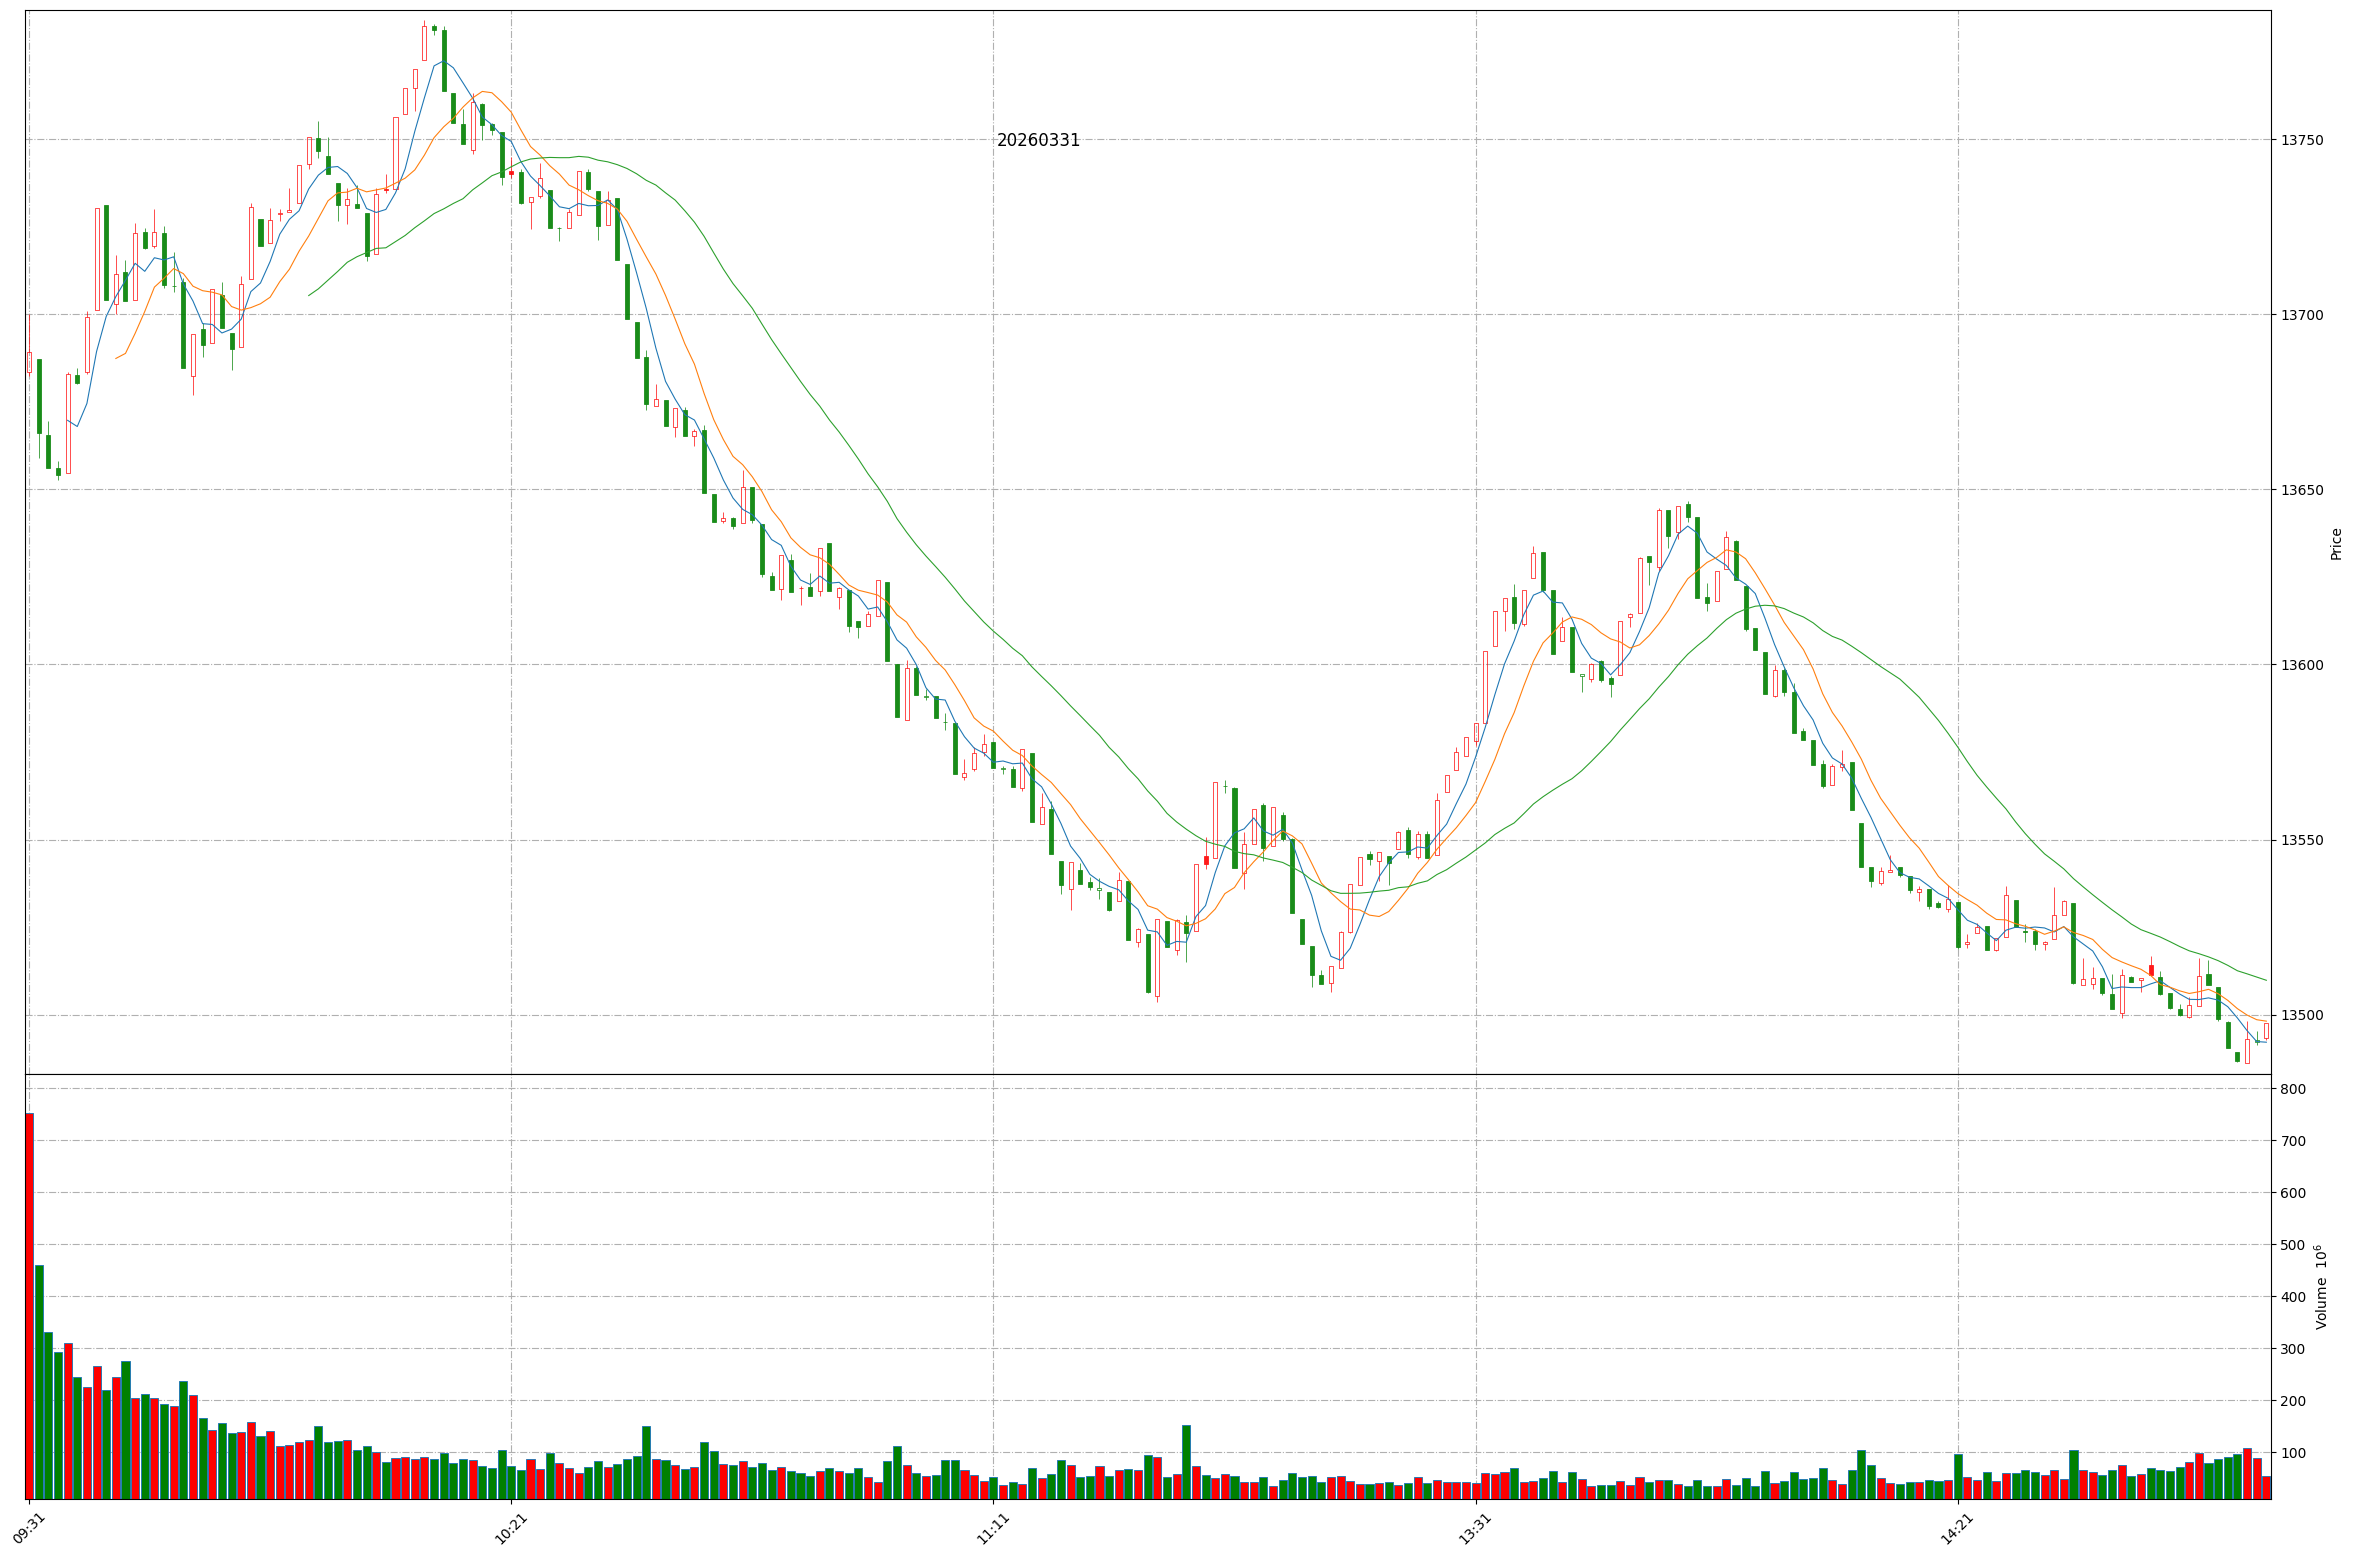
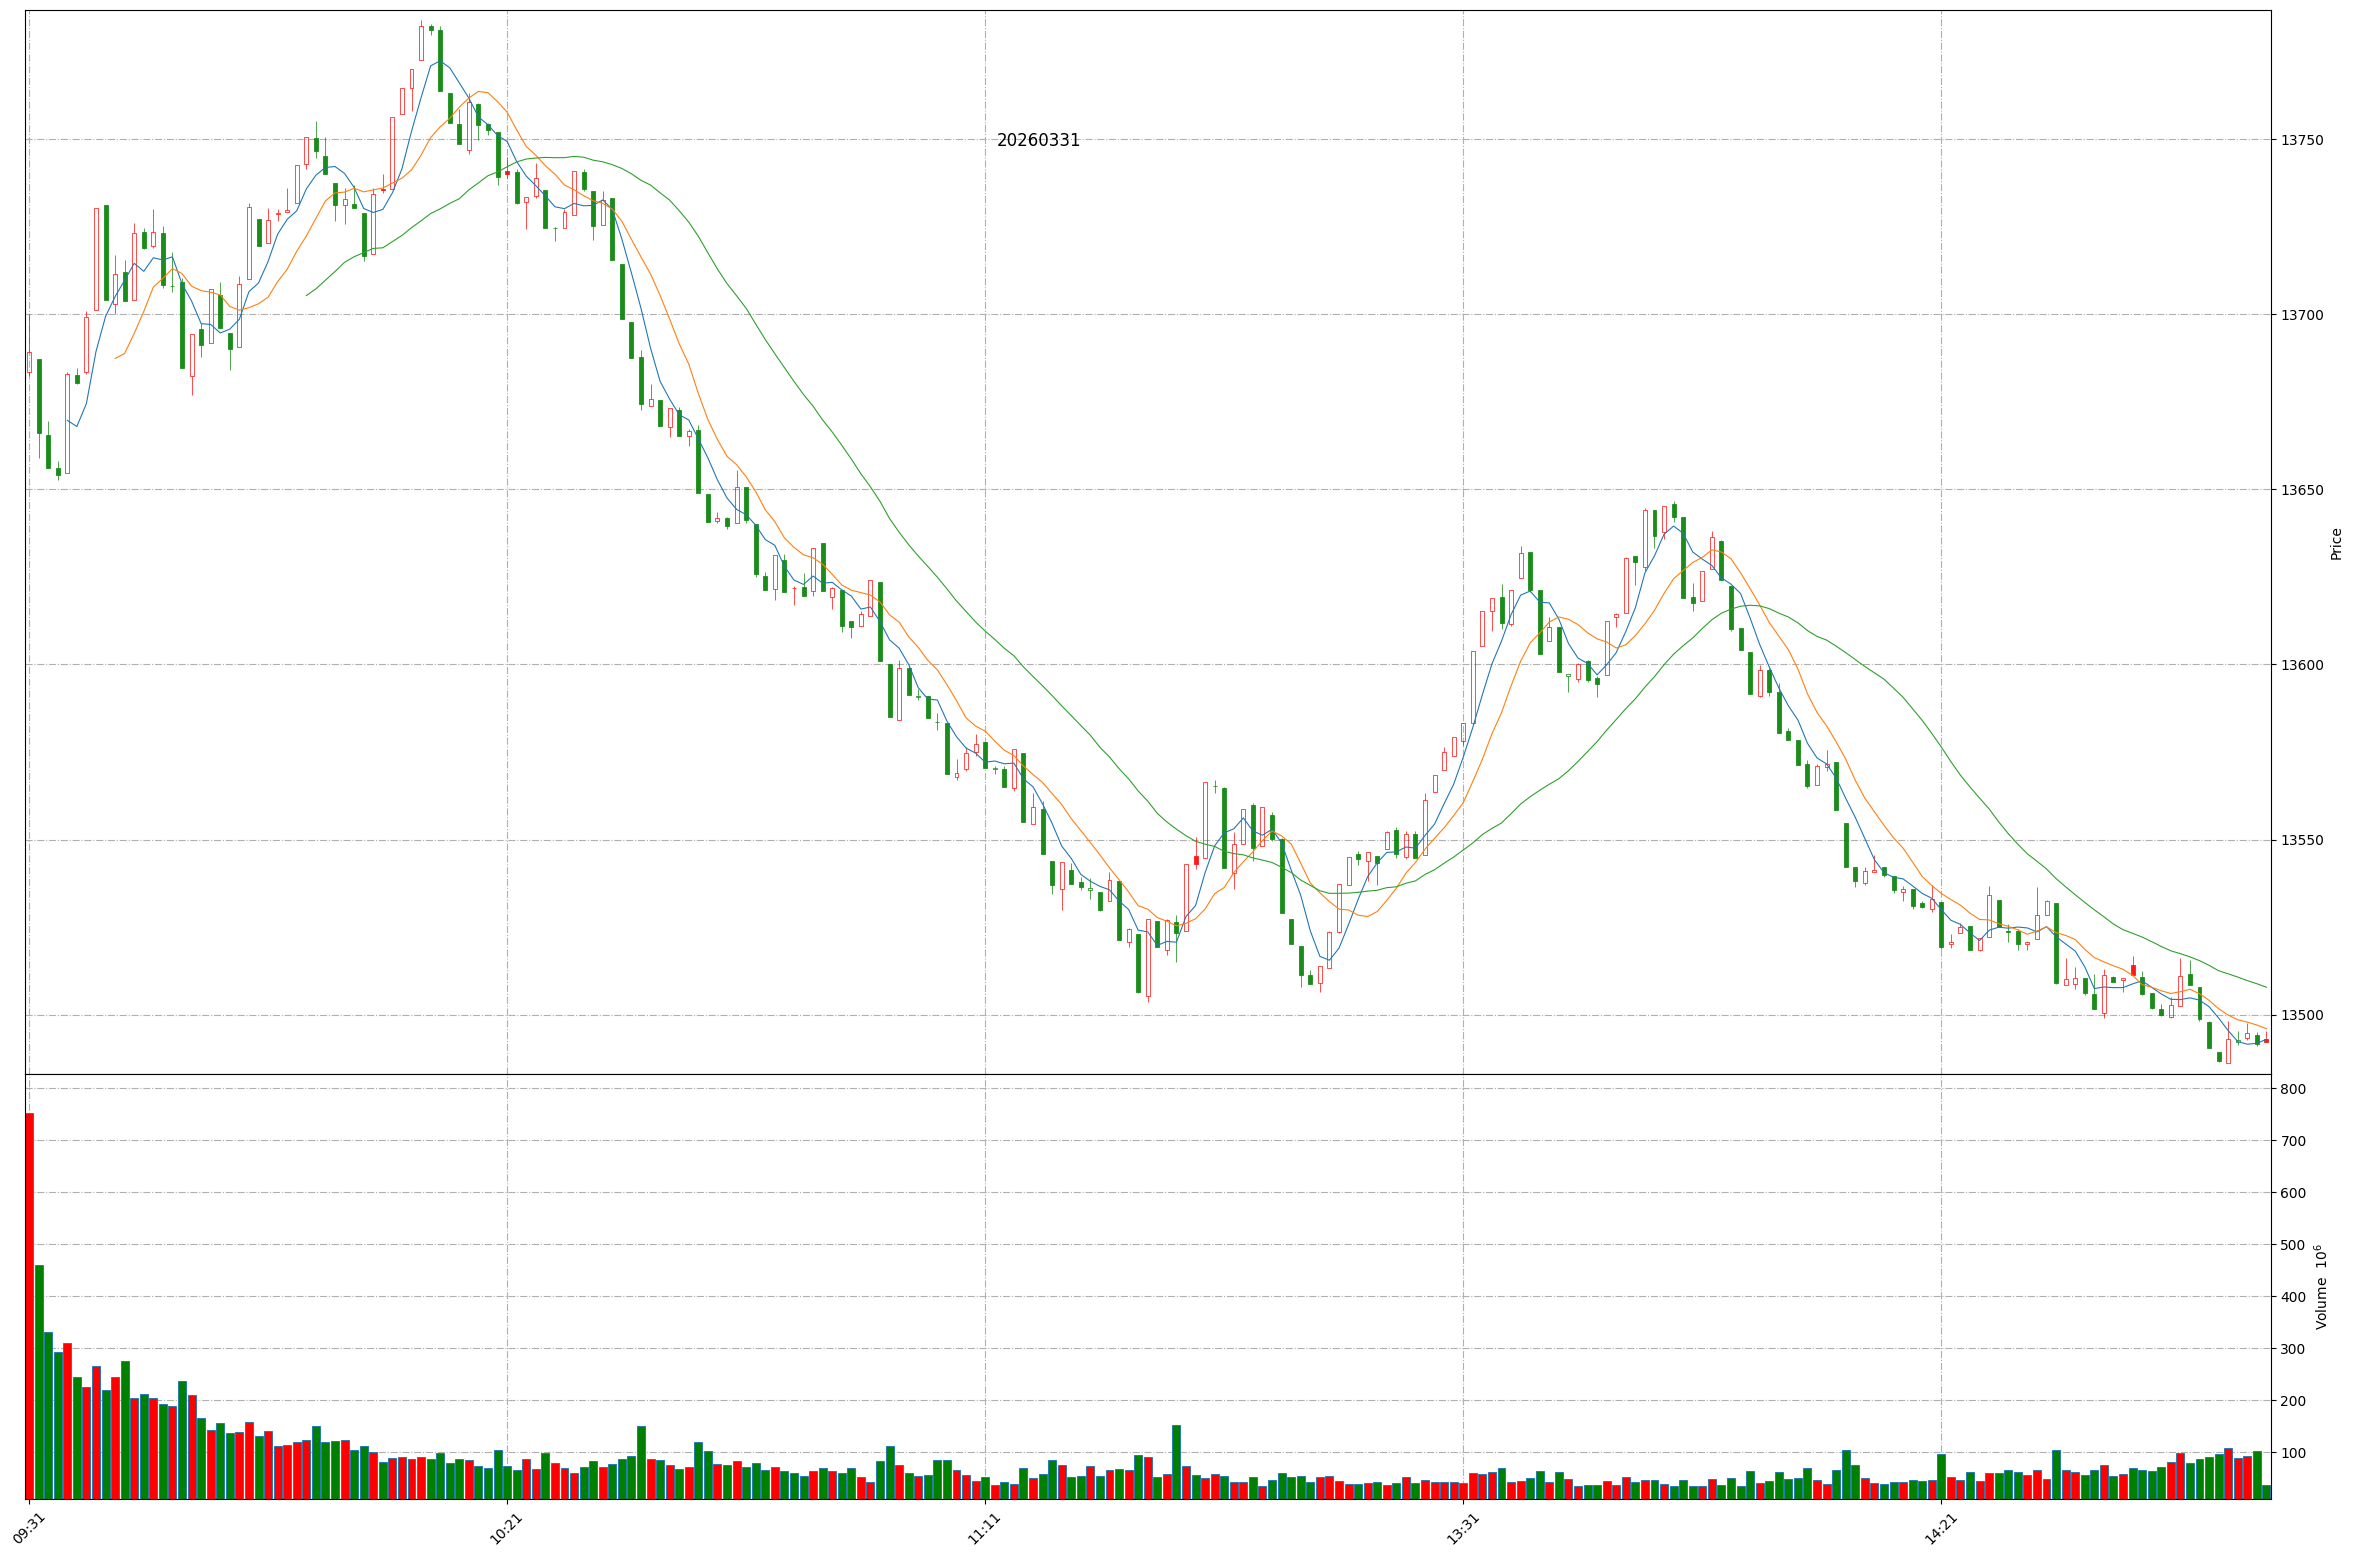
Github action update at 2026-03-31 14:54:37.

diff --git a/README.md b/README.md
@@ -1,11 +1,11 @@
 
 # Daily-A-share-market-quotes 每日 A 股指数（5min 更新）- 20260331
 
-### 上证指数 20260331 14:52
+### 上证指数 20260331 14:54
 ![](./fig/2026/3/20260331-sh000001.png)
 
-### 深证成指 20260331 14:52
+### 深证成指 20260331 14:54
 ![](./fig/2026/3/20260331-sz399001.png)
 
-### 北证50 20260331 14:52
+### 北证50 20260331 14:54
 ![](./fig/2026/3/20260331-bj899050.png)
